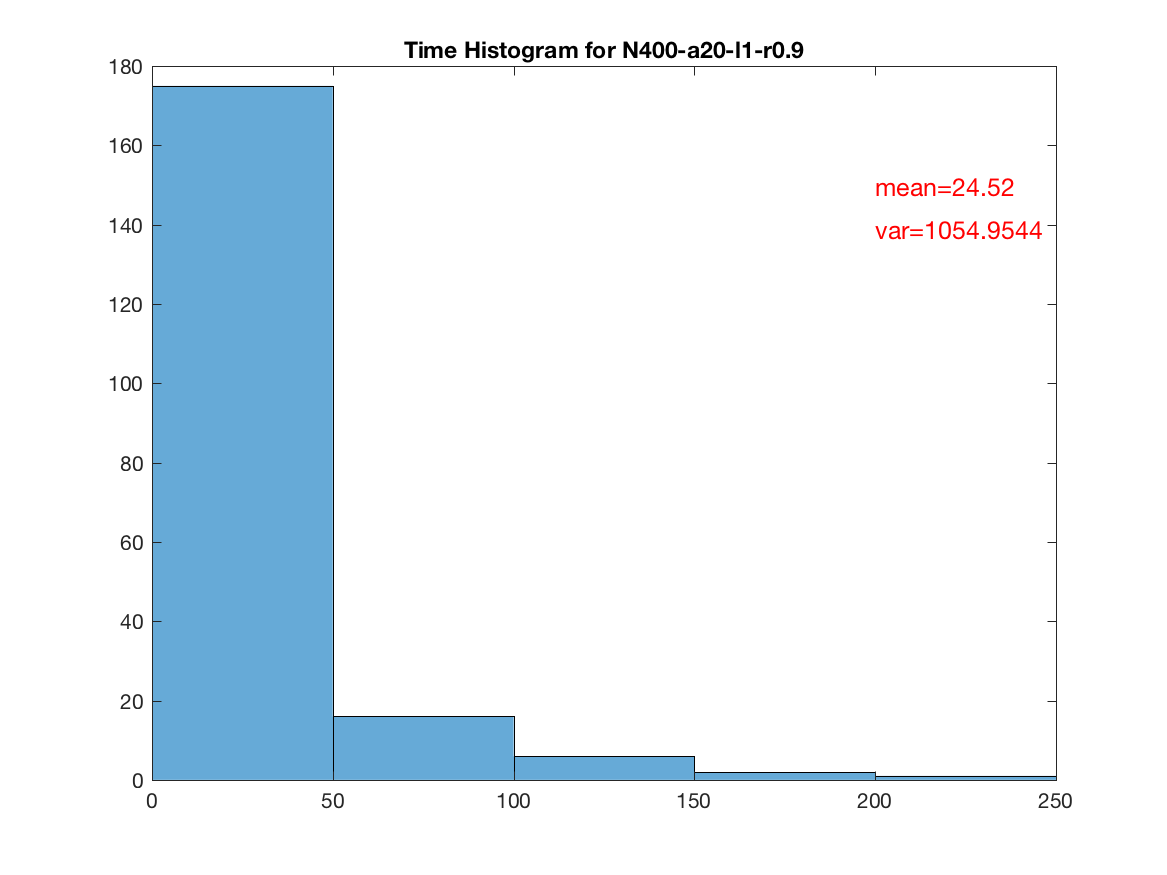
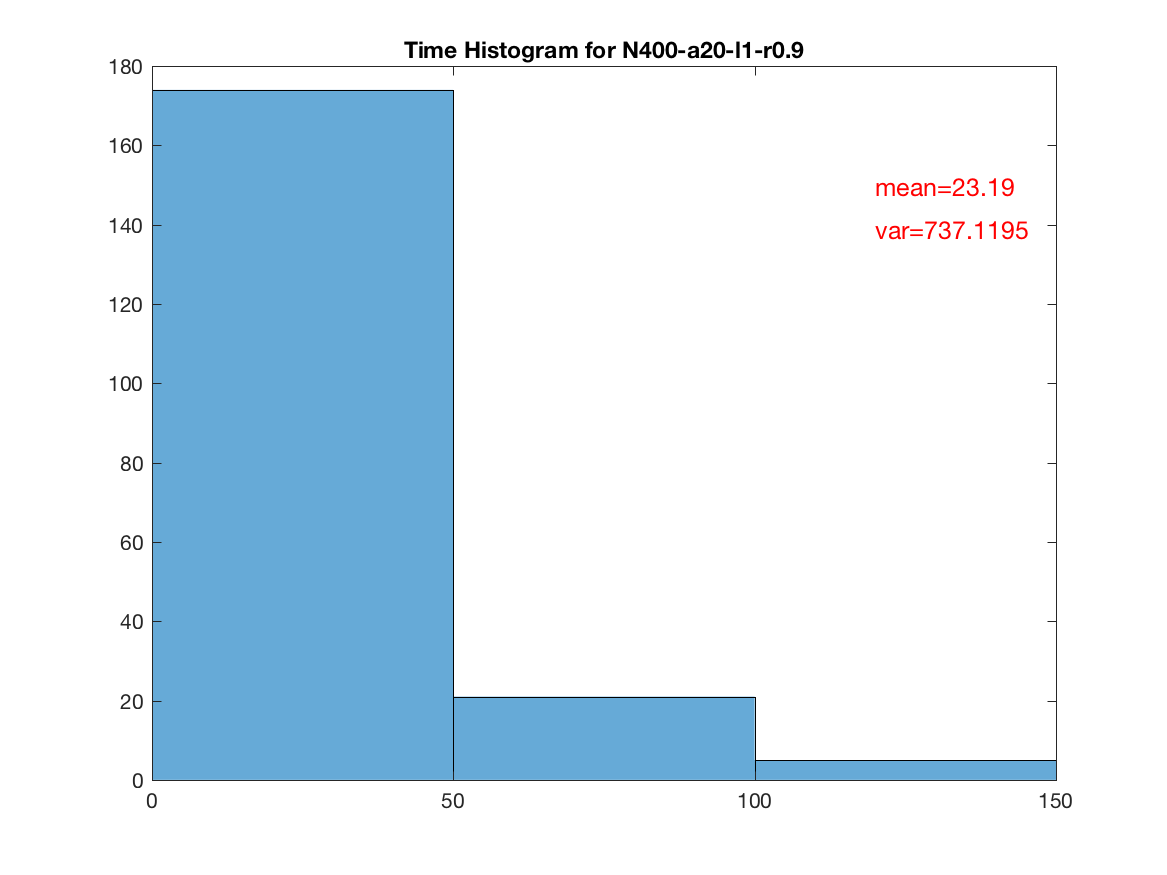
update code

diff --git a/amath_server/loopAutorun.m b/amath_server/loopAutorun.m
@@ -102,7 +102,7 @@ close gcf;
 parsave(strcat(fpathN, fnamela, '.txt'), fACor, '-ascii');
 
 fnamelt = strcat('Loop-relaxTau-N',num2str(fnode),'-a',num2str(fa),'-l',num2str(fL),'-r',num2str(fangle)); 
-relaxTau = Cor2tau(LACor, fpathN, fnamelt);
+relaxTau = Cor2tau(fACor, fpathN, fnamelt);
 
 end
 

diff --git a/hyak_sim/loopAutorun.m b/hyak_sim/loopAutorun.m
@@ -102,7 +102,7 @@ close gcf;
 parsave(strcat(fpathN, fnamela, '.txt'), fACor, '-ascii');
 
 fnamelt = strcat('Loop-relaxTau-N',num2str(fnode),'-a',num2str(fa),'-l',num2str(fL),'-r',num2str(fangle)); 
-relaxTau = Cor2tau(LACor, fpathN, fnamelt);
+relaxTau = Cor2tau(fACor, fpathN, fnamelt);
 
 end
 

diff --git a/lab_sim/loopAutorun.m b/lab_sim/loopAutorun.m
@@ -102,7 +102,7 @@ close gcf;
 parsave(strcat(fpathN, fnamela, '.txt'), fACor, '-ascii');
 
 fnamelt = strcat('Loop-relaxTau-N',num2str(fnode),'-a',num2str(fa),'-l',num2str(fL),'-r',num2str(fangle)); 
-relaxTau = Cor2tau(LACor, fpathN, fnamelt);
+relaxTau = Cor2tau(fACor, fpathN, fnamelt);
 
 end
 

diff --git a/loopAutorun.m b/loopAutorun.m
@@ -102,7 +102,7 @@ close gcf;
 parsave(strcat(fpathN, fnamela, '.txt'), fACor, '-ascii');
 
 fnamelt = strcat('Loop-relaxTau-N',num2str(fnode),'-a',num2str(fa),'-l',num2str(fL),'-r',num2str(fangle)); 
-relaxTau = Cor2tau(LACor, fpathN, fnamelt);
+relaxTau = Cor2tau(fACor, fpathN, fnamelt);
 
 end
 
